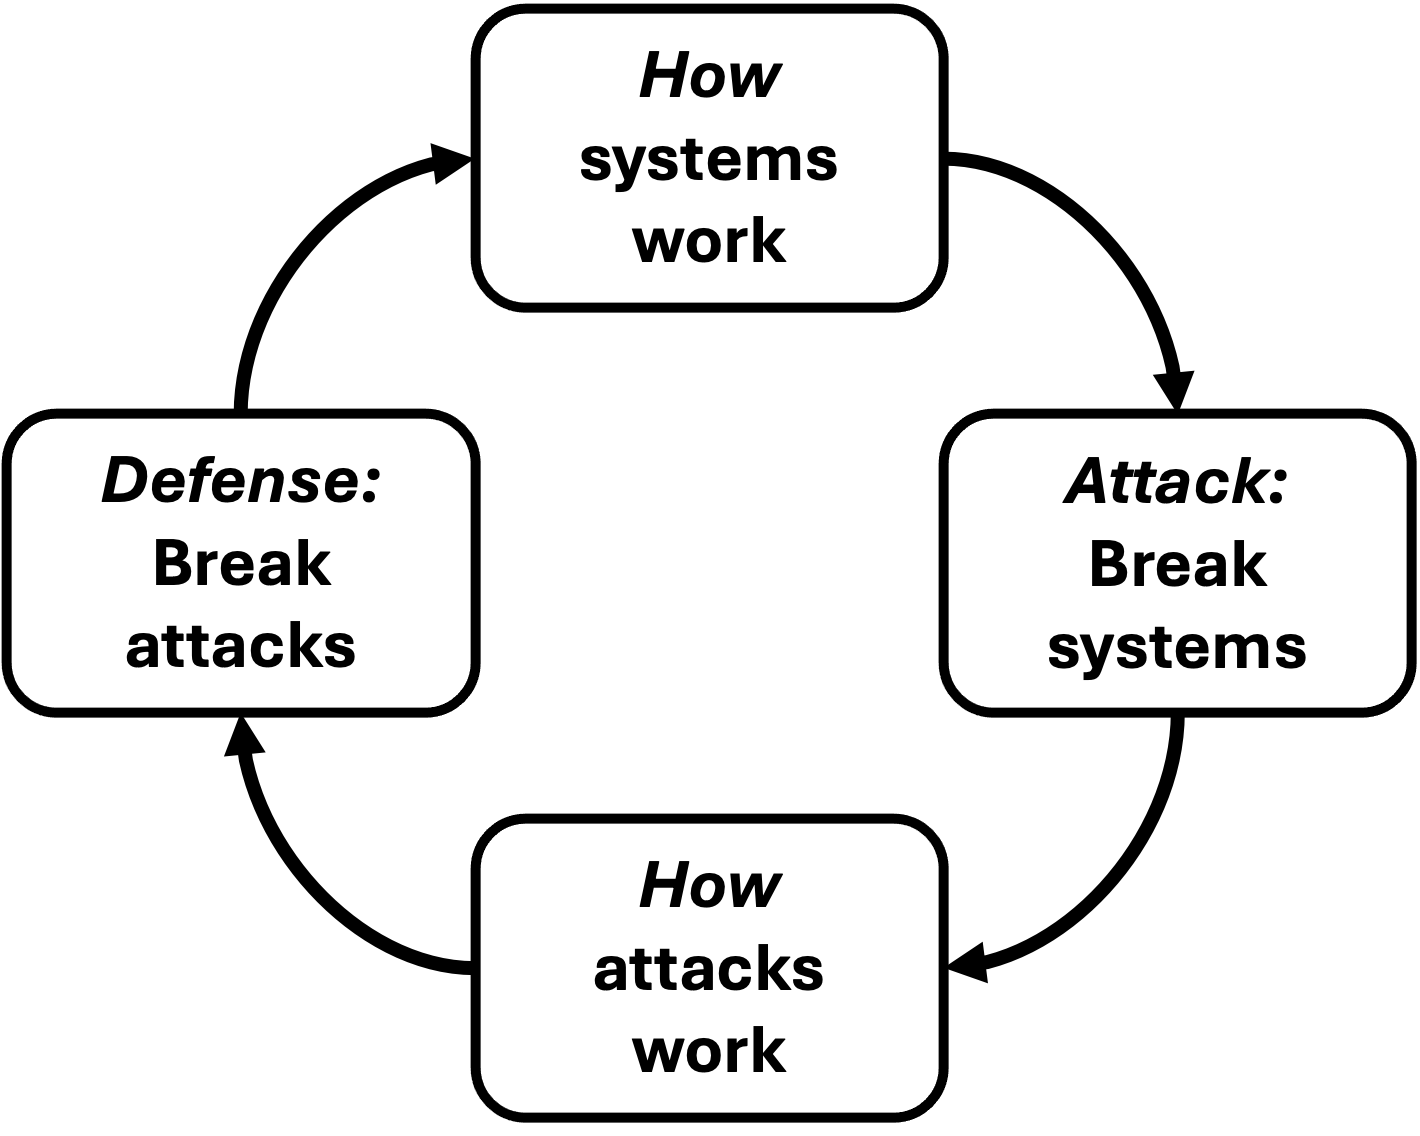
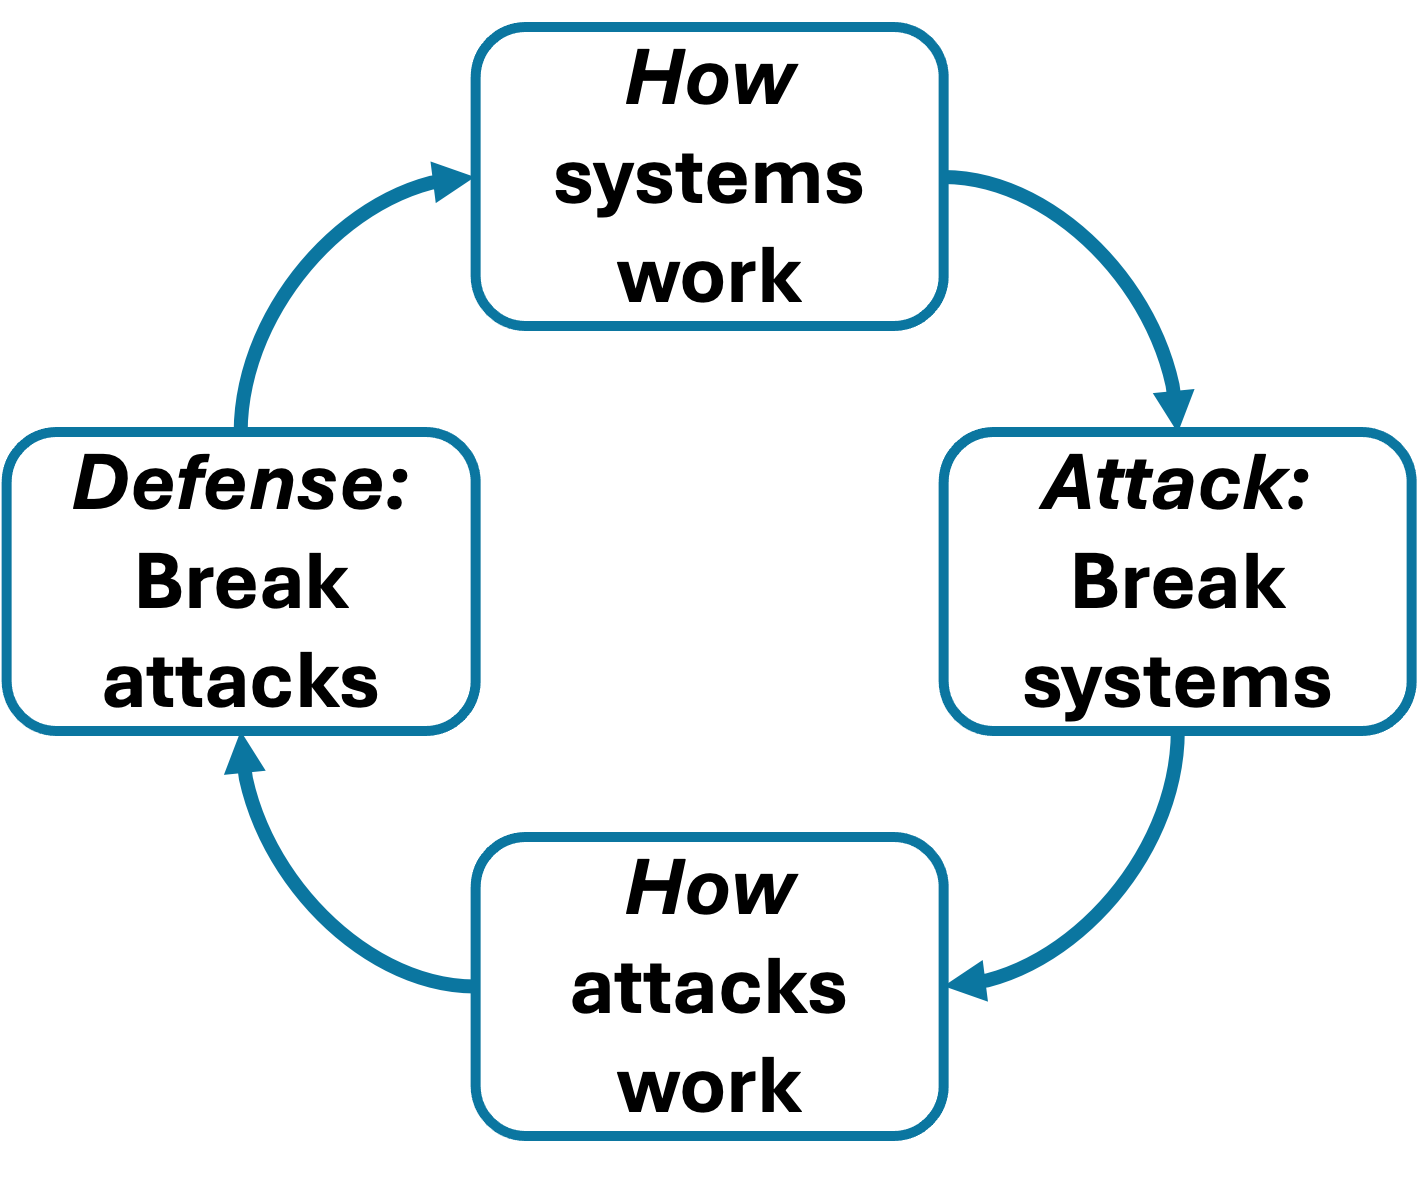
update index

Changed region(s): [[0.0, 0.0, 1.0, 1.0], [0.1859, 0.2157, 0.2169, 0.2773]]

diff --git a/index.html b/index.html
@@ -4,7 +4,7 @@
     <meta charset="UTF-8">
     <meta name="viewport" content="width=device-width, initial-scale=1.0">
     <title>NUS CURIOSITY</title>
-    <link rel="icon" href="/assets/favicon.ico" type="image/x-icon">
+    <link rel="icon" href="assets/favicon.ico" type="image/x-icon">
     <link rel="stylesheet" href="css/style.css">
 </head>
 <body>
@@ -24,16 +24,16 @@
     </nav>
     <div class="container">
     <main>
-        <h2>Welcome to CURIOSITY!</h2>
+        <h2 class="welcome-h2">Welcome to CURIOSITY!</h2>
         <div class="welcome-section">
             <div class="welcome-text">
-                <p>CURIOSITY is a cybersecurity research group led by <a href="https://www.comp.nus.edu.sg/~liangzk/" target="_blank">Prof. Zhenkai Liang</a> at <a href="https://www.nus.edu.sg/" target="_blank">National University of Singapore</a>. </p>
+                <p>CURIOSITY is a cybersecurity research group led by <a href="https://www.comp.nus.edu.sg/~liangzk/" target="_blank">Prof. Zhenkai Liang</a> at <a href="https://www.nus.edu.sg/" target="_blank">NUS</a>. </p>
                 <p>Our research mainly focuses on system security, covering provenance, anomaly detection, trusted computing, Android malware detection, cyber range and attack replay, vulnerability assessment, program analysis, fuzzing and testing, AI for security, etc.</p>
                 <p><strong>Group Motto: <em>Understanding systems, abstracting knowledge, and connecting facts.</em></strong></p>
             </div>
-            <!-- <div class="welcome-image">
+            <div class="welcome-image">
                 <img src="assets/loop.png" alt="research loop">
-            </div> -->
+            </div>
         </div>
         <h2>Latest News</h2>
         <h2>For Prospective Students</h2>

diff --git a/css/style.css b/css/style.css
@@ -11,6 +11,9 @@ header {
     /* flex-direction: column; */
 }
 
+.welcome-h2 {
+    font-size: 30px;
+}
 
 .logo {
     width: 200px;
@@ -65,6 +68,33 @@ nav a:hover {
     margin: 0 auto; /* This centers the container */
     padding: 0 20px; 
     margin-bottom: 30px;
+    display: flex;
+}
+
+.welcome-section {
+    display: flex; /* 设置 flex 布局 */
+    justify-content: space-between; /* 子元素之间的间距平均分布 */
+    align-items: center; /* 垂直居中对齐 */
+    width: 100%; /* 父容器宽度占满整个页面宽度 */
+  }
+
+.welcome-text {
+    flex: 2.5;
+    /* padding-right: 100px; */
+}
+
+.welcome-text, .welcome-image {
+    /* padding: 10px;  */
+}
+
+.welcome-image {
+    flex: 1;
+    /* margin-left: 50px; */
+}
+
+.welcome-image img {
+    width: 100%; /* 图片宽度自适应其容器宽度 */
+    height: auto; /* 图片高度自动调整以保持纵横比 */
 }
 
 /* main {

diff --git a/people.html b/people.html
@@ -26,6 +26,7 @@
     <main>
     <h2>Faculty</h2>
     <h2>Ph.D. Students</h2>
+    <h2>Master Students</h2>
     <h2>Visiting Students</h2>
     <h2>Alumni</h2>
     </main>
